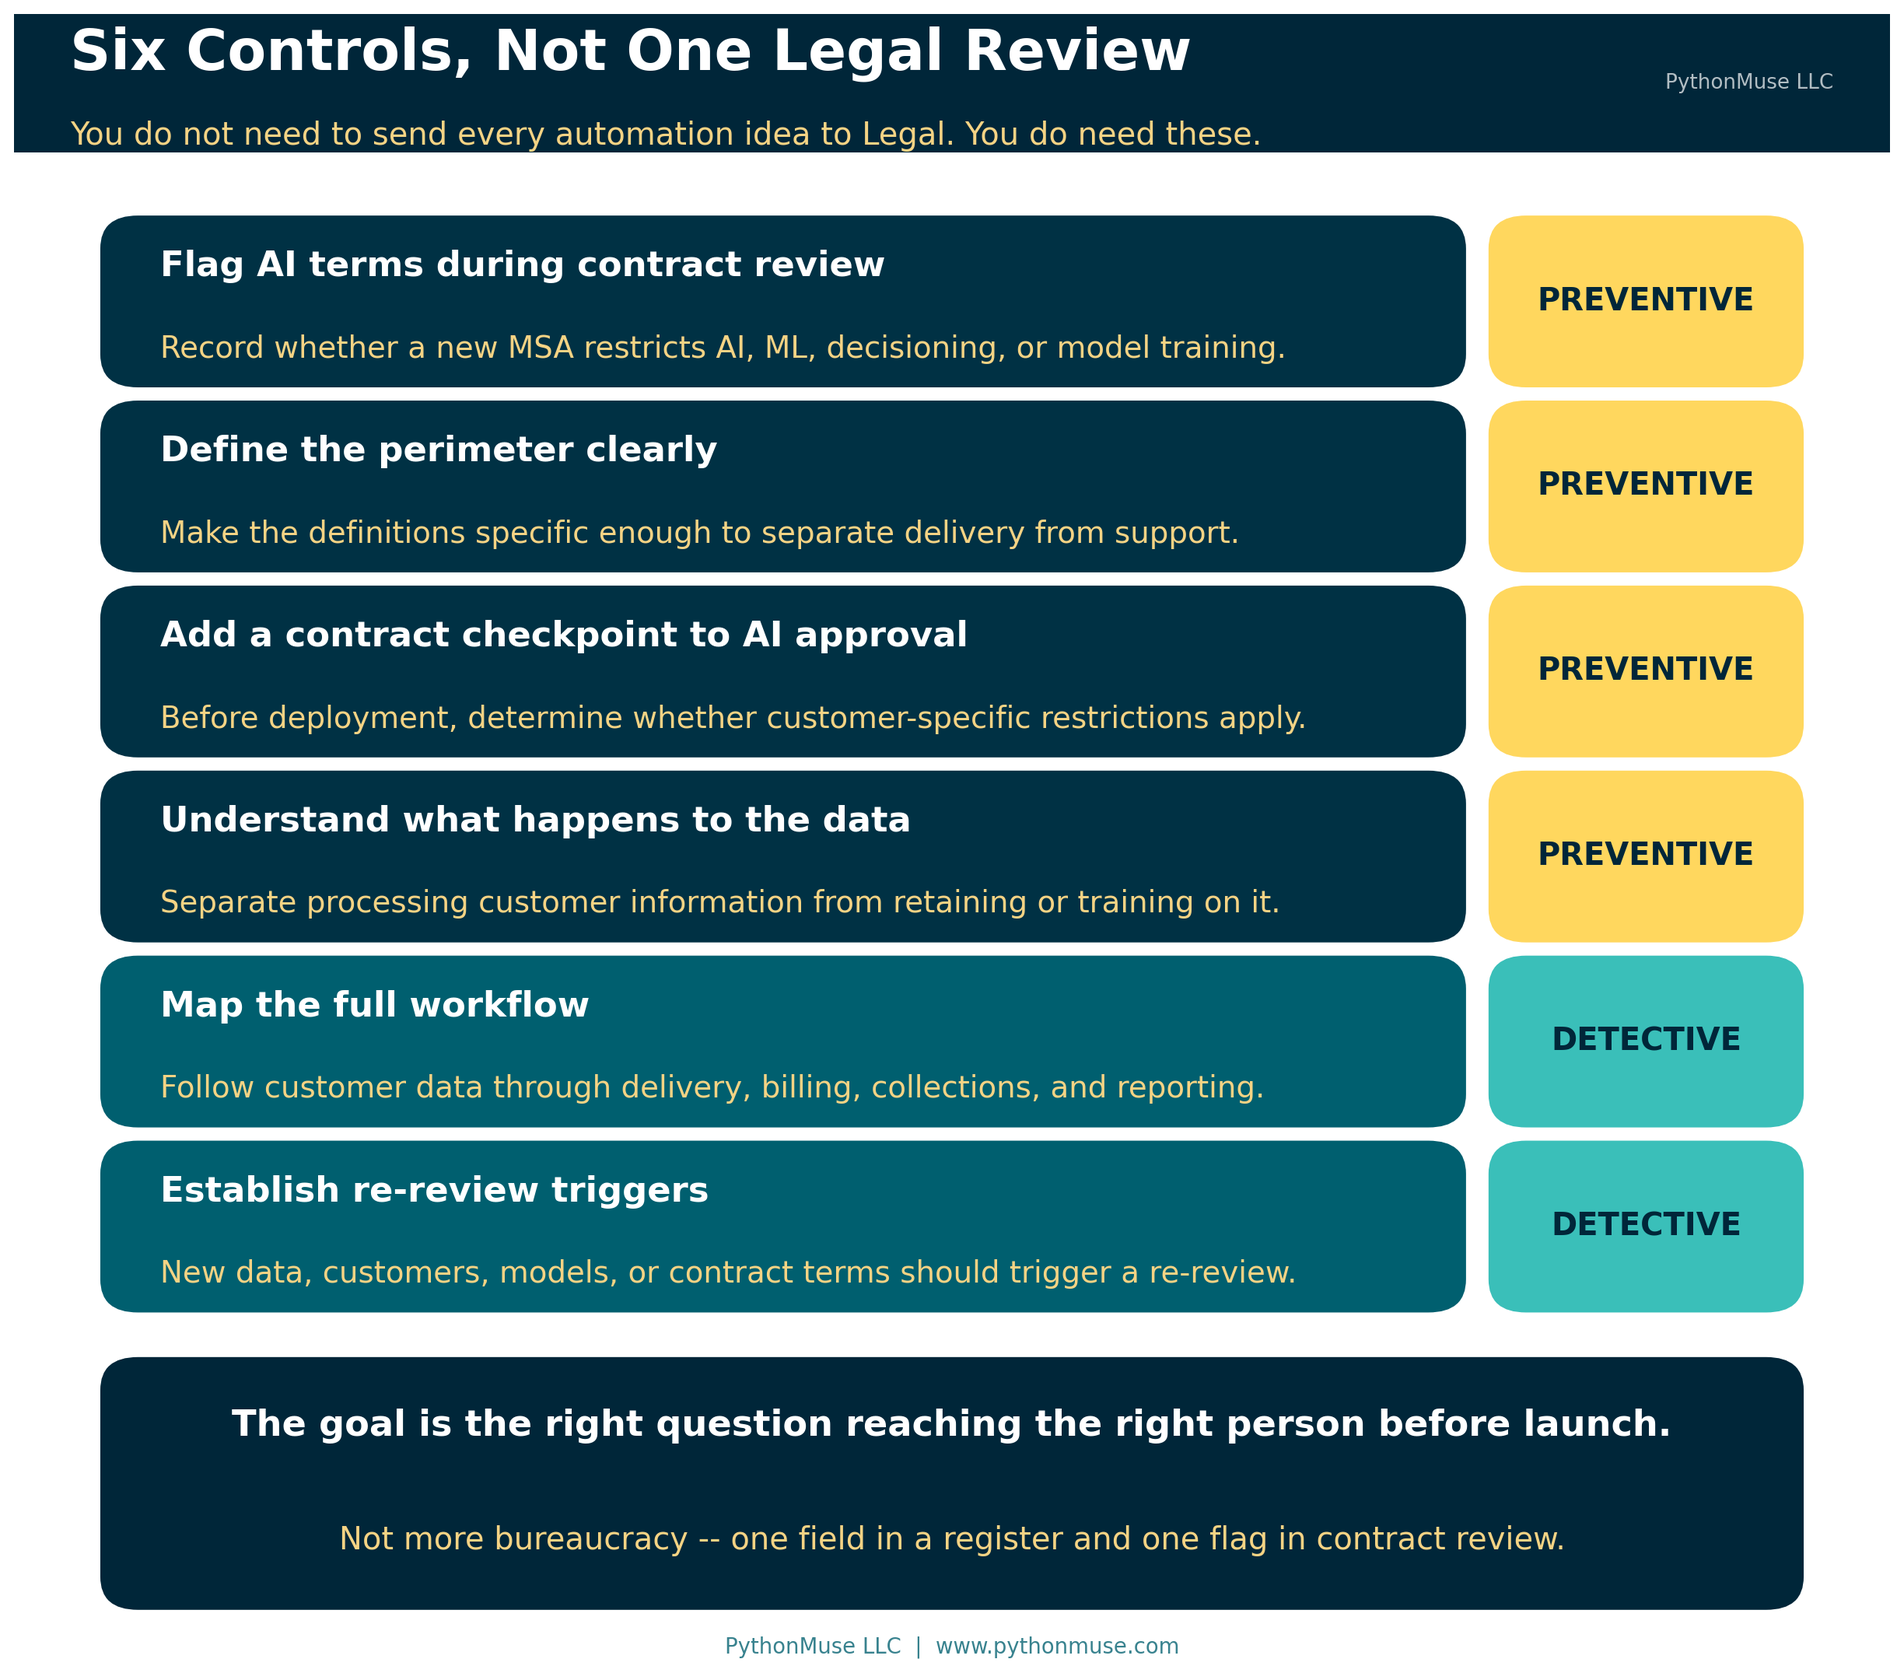
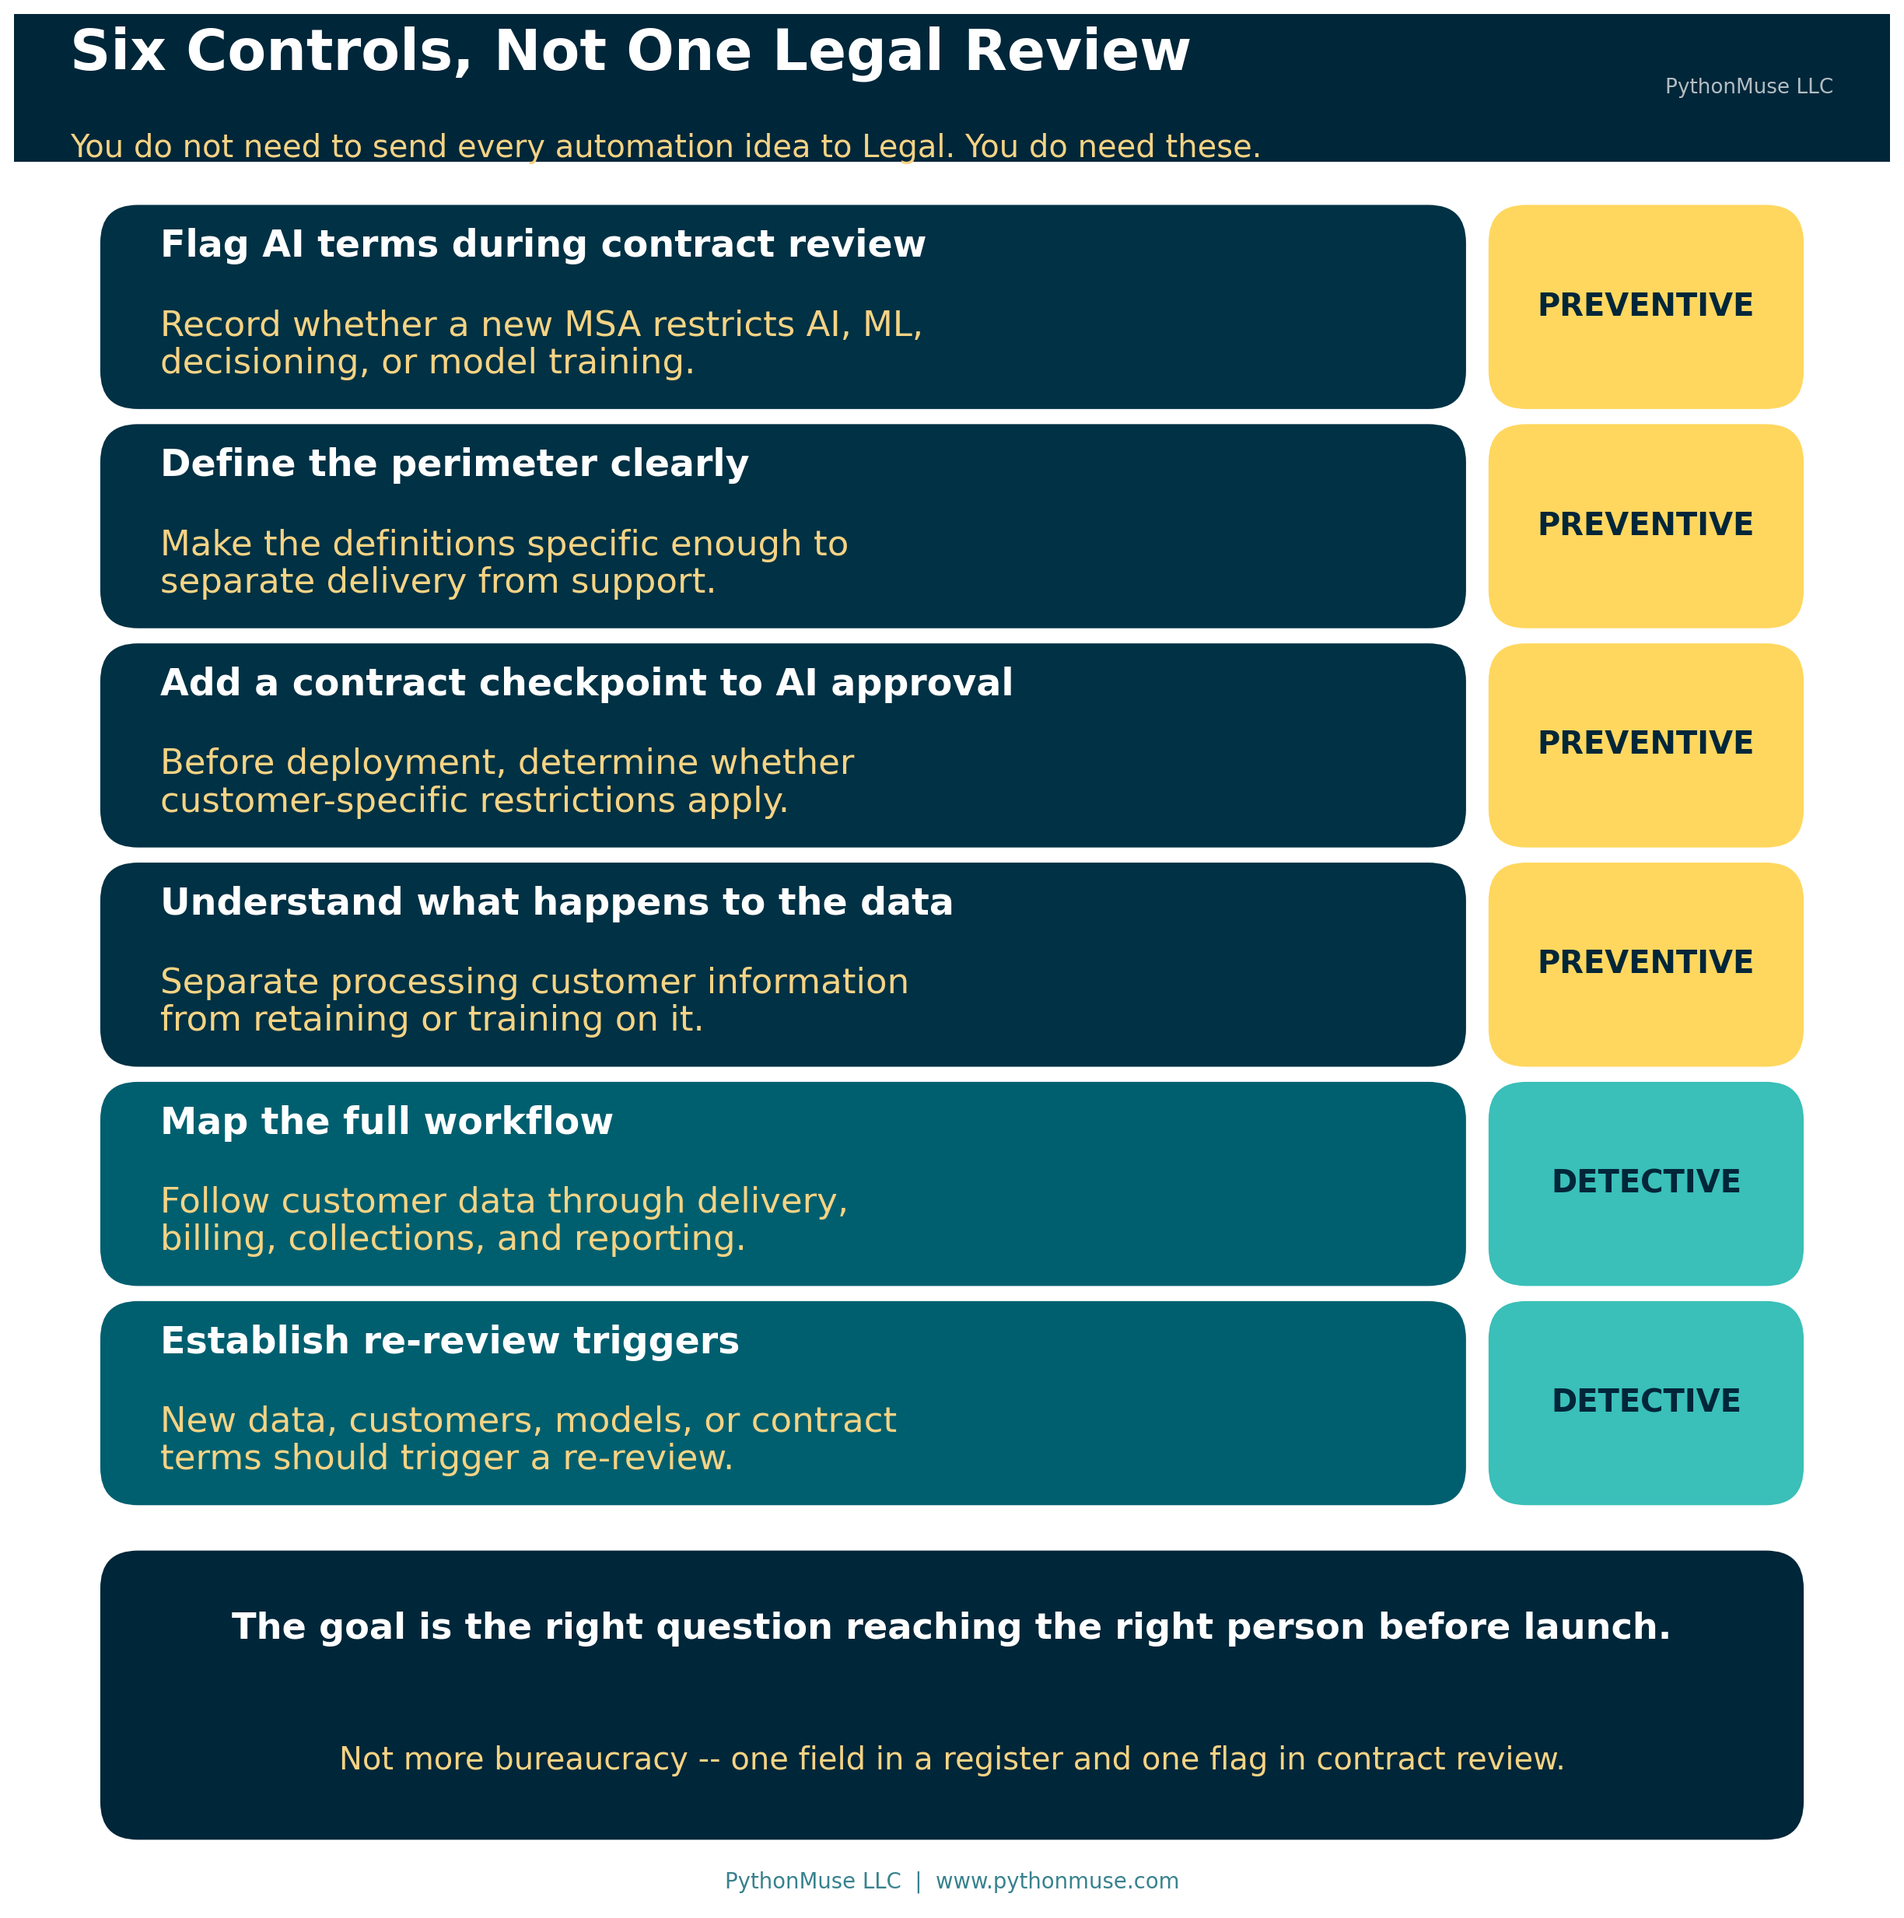
Enlarge detail text in 38_controls.png further, wrapped to two lines
The per-control description line was still noticeably smaller than
the title above it. Bumped it from 15.5pt to 18pt, wrapped each of
the six descriptions onto two lines to keep width in check, and grew
the row height and figure size to give the larger two-line text room
inside its box without touching the edges.

diff --git a/articles/38-ai-workflow-customer-contract/generate_visuals.py b/articles/38-ai-workflow-customer-contract/generate_visuals.py
@@ -423,45 +423,45 @@ def make_customer_dimension():
 # ---------------------------------------------------------------------------
 CONTROLS = [
     ("Flag AI terms during contract review",
-     "Record whether a new MSA restricts AI, ML, decisioning, or model training.",
+     "Record whether a new MSA restricts AI, ML,\ndecisioning, or model training.",
      "PREVENTIVE", MIDNIGHT_TEAL),
     ("Define the perimeter clearly",
-     "Make the definitions specific enough to separate delivery from support.",
+     "Make the definitions specific enough to\nseparate delivery from support.",
      "PREVENTIVE", MIDNIGHT_TEAL),
     ("Add a contract checkpoint to AI approval",
-     "Before deployment, determine whether customer-specific restrictions apply.",
+     "Before deployment, determine whether\ncustomer-specific restrictions apply.",
      "PREVENTIVE", MIDNIGHT_TEAL),
     ("Understand what happens to the data",
-     "Separate processing customer information from retaining or training on it.",
+     "Separate processing customer information\nfrom retaining or training on it.",
      "PREVENTIVE", MIDNIGHT_TEAL),
     ("Map the full workflow",
-     "Follow customer data through delivery, billing, collections, and reporting.",
+     "Follow customer data through delivery,\nbilling, collections, and reporting.",
      "DETECTIVE", OCEAN_TEAL),
     ("Establish re-review triggers",
-     "New data, customers, models, or contract terms should trigger a re-review.",
+     "New data, customers, models, or contract\nterms should trigger a re-review.",
      "DETECTIVE", OCEAN_TEAL),
 ]
 
 
 def make_controls():
-    fig, ax = blank_axes((13.4, 11.8))
+    fig, ax = blank_axes((13.4, 13.5))
     add_header_bar(fig, "Six Controls, Not One Legal Review",
                    "You do not need to send every automation idea to Legal. You do need these.",
-                   height=0.084)
+                   height=0.078)
 
-    row_h, row_gap = 0.096, 0.016
+    row_h, row_gap = 0.100, 0.016
     pitch = row_h + row_gap
-    top = 0.874
+    top = 0.895
     body_x, body_w = 0.05, 0.72
     chip_x, chip_w = 0.79, 0.16
 
     for i, (title, detail, kind, color) in enumerate(CONTROLS):
         y = top - i * pitch - row_h
         rounded_box(ax, (body_x, y), body_w, row_h, color, text_color=WHITE,
-                    text=title, fontsize=18, sub=detail, subsize=15.5,
+                    text=title, fontsize=19, sub=detail, subsize=18,
                     sub_color=WARM_GLOW, ha="left",
                     text_x=body_x + 0.028,
-                    title_offset=0.22, sub_offset=0.30, linespacing=1.2)
+                    title_offset=0.32, sub_offset=0.20, linespacing=1.15)
         chip_fill = GOLDEN_YELLOW if kind == "PREVENTIVE" else BRIGHT_TEAL
         rounded_box(ax, (chip_x, y), chip_w, row_h, chip_fill,
                     text_color=DEEP_NAVY, text=kind, fontsize=16)
